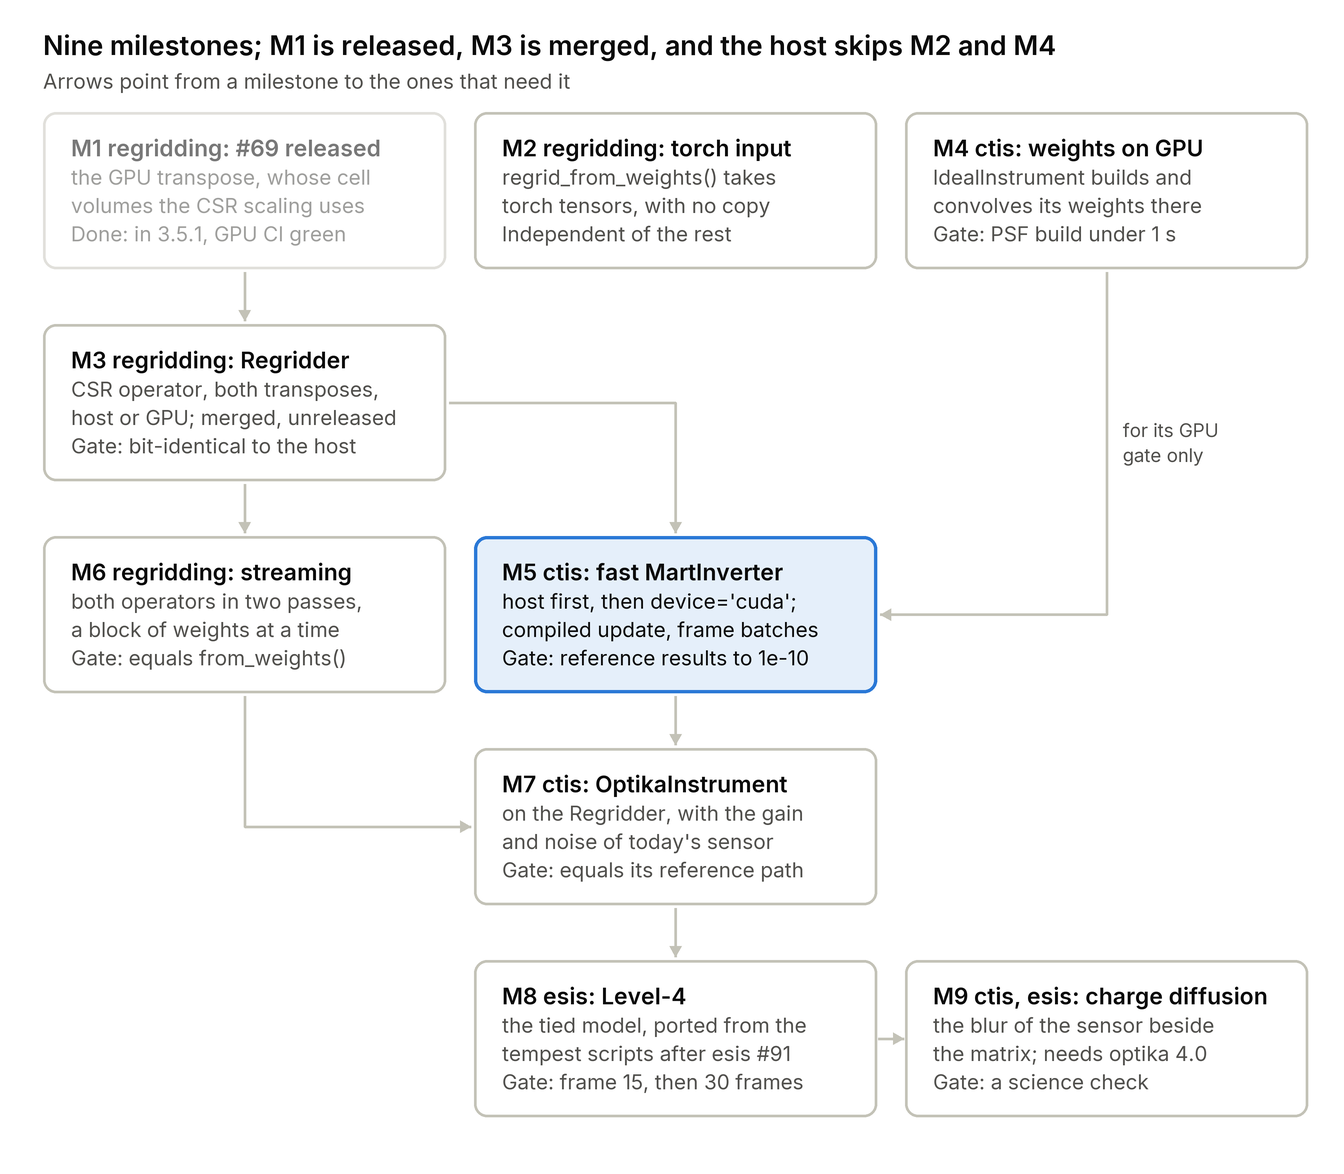
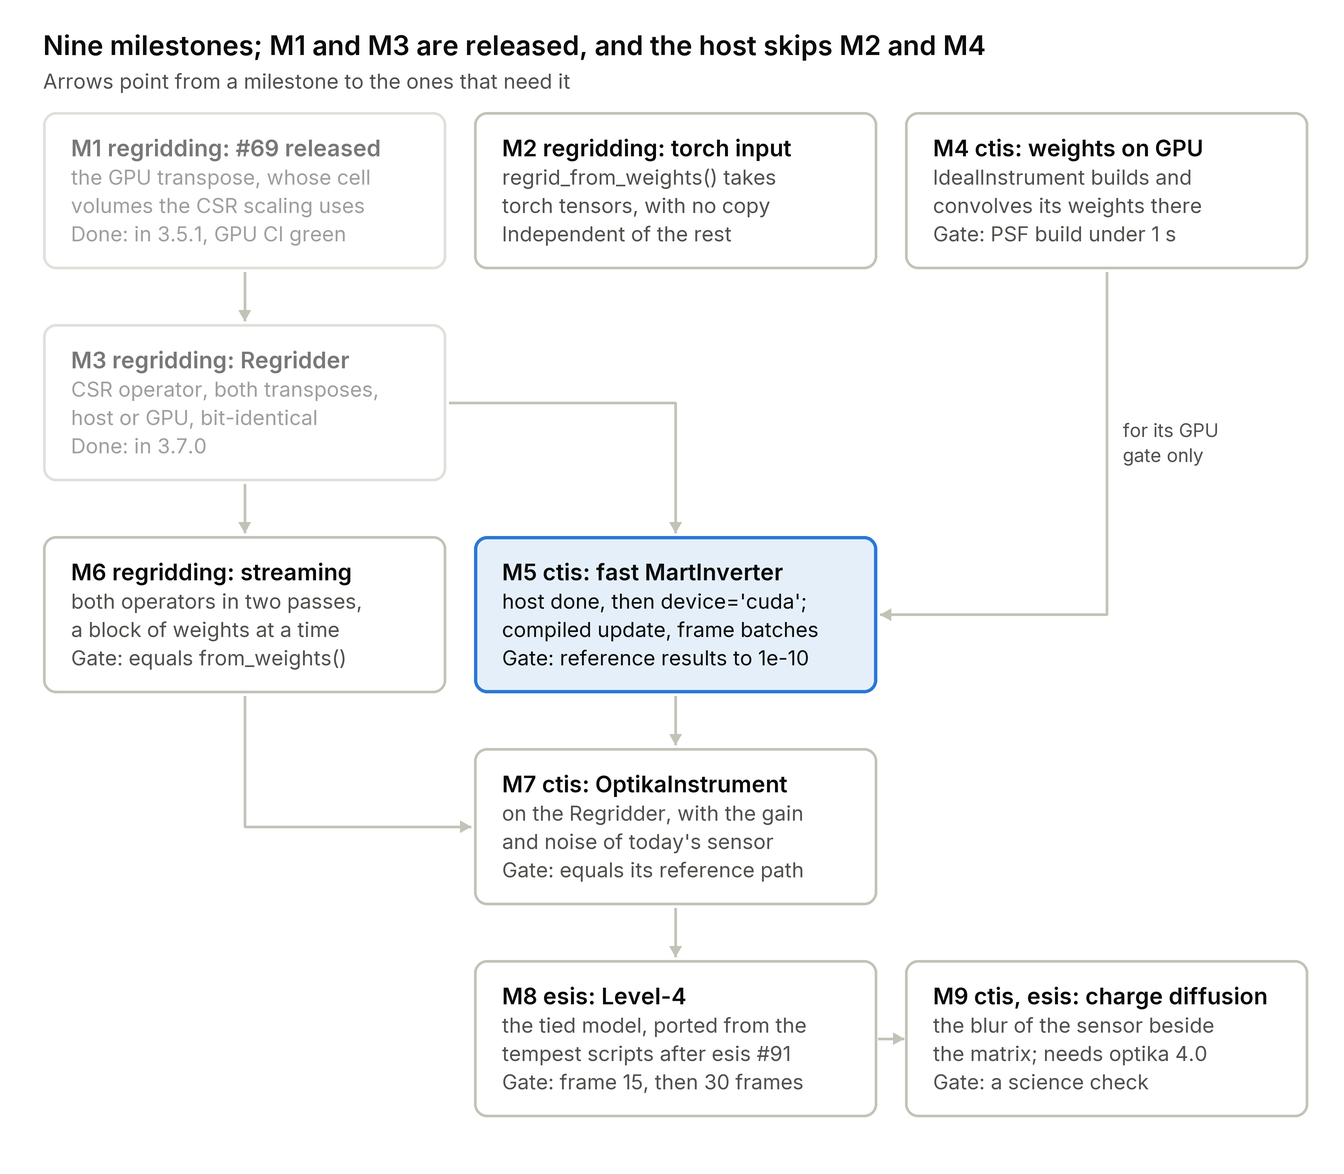
Bring the roadmap up to date with the host half of M5
The `Regridder` shipped in regridding 3.7.0, and the host half of M5 is
what this branch adds, so the roadmap now says where things stand: in
its introduction, its table of the pieces, its paragraph on the
milestones and its milestone chart.

The design is described as it was built.  The forward matrix takes a
scene for each channel, and the backprojection is its conservative
transpose, derived the first time it is needed, so only one operator is
assembled from the weights.  The roadmap had the scene shared by the
channels, and a second operator assembled for the backprojection.  The
box of the two matrices in the design figure is corrected to match.

The tolerance of the gate of M5 in single precision is 1e-5, as agreed.
The gate also records what the host measured on the three benchmark
problems: solutions within 1.5e-14 of their peaks of those of the
reference path in double precision, and within 2.3e-7 in single
precision, at the same iteration counts.

The width of a batch of frames joins the open questions: `MartInverter`
solves every frame it is given at once, and at production four fit in
the host.

Claude-Session: https://claude.ai/code/session_01StcJvVHMXbjJmyFFwf4Pcn

Changed region(s): [[0.0312, 0.276, 0.2812, 0.3986], [0.2188, 0.0307, 0.7812, 0.0613], [0.4062, 0.4906, 0.5938, 0.5213]]

diff --git a/docs/roadmap/cuda-mart.rst b/docs/roadmap/cuda-mart.rst
@@ -7,8 +7,10 @@ Every numerical piece of a fast MART now exists,
 and ``regridding.Regridder`` joins most of them:
 one sparse CSR operator with both of its transposes,
 assembled and applied on the host or on a GPU.
-What remains is a path in :class:`~ctis.inverters.MartInverter` that runs on it
-and, for the ESIS Level-4 product,
+:class:`~ctis.inverters.MartInverter` now runs on it on the host,
+for an :class:`~ctis.instruments.IdealInstrument`.
+What remains is the same loop on a GPU and, for the ESIS Level-4 product,
+the model of the flight instrument on the operator,
 a streaming build for weights too large to hold at once
 and the tied model of ESIS, which today lives in scripts.
 The host comes first.
@@ -50,7 +52,7 @@ Where things stand
         its per-grid cell volumes give the CSR operator its conservative scaling
     * - ``regridding.Regridder``
       - `regridding #70 <https://github.com/sun-data/regridding/pull/70>`__
-      - Merged, to be released in 3.7.0
+      - Released in 3.7.0 on 2026-11-13
       - Every channel and wavelength in one CSR matrix,
         with broadcasting declared by shapes, exact and conservative transposes,
         assembly on the host or GPU that agree bit for bit,
@@ -60,6 +62,13 @@ Where things stand
       - Released
       - The reference algorithm, on the host through :mod:`named_arrays`,
         with PSF support in :class:`~ctis.instruments.IdealInstrument`
+    * - :class:`~ctis.inverters.MartInverter` on the ``Regridder``
+      - ctis main
+      - Unreleased
+      - The same algorithm on the host, on raw arrays and compiled code,
+        for an :class:`~ctis.instruments.IdealInstrument`:
+        frames solved together, float32 as an option,
+        and the reference path kept for the instruments without matrices
     * - ``torch`` ``Regridder``
       - ctis ``feature/parametric-inverter``, ``feature/elastic-net-inverter``
       - Unmerged
@@ -276,12 +285,17 @@ which every gate compares against.
   a length of 1 in the input means broadcast inside the matrix,
   and a length of 1 in the output means summed.
   Axes the weights lack are batch columns.
-  The forward model is one product from (wavelength, x, y) to (channel, x′, y′),
-  with the scene shared by the channels.
-  Its transpose would sum the channels,
-  but MART backprojects each channel on its own,
-  so the backprojection is the transpose of a second operator on the same weights,
-  which takes a scene per channel, (channel, wavelength, x, y).
+  The forward model is one product from (channel, wavelength, x, y) to (channel, x′, y′),
+  on a scene for each channel:
+  the scene times the photons that each of its units sends toward that channel,
+  which one compiled pass writes.
+  MART backprojects each channel on its own,
+  so the backprojection is the conservative transpose of that same operator,
+  derived the first time it is needed,
+  and only one operator is assembled from the weights.
+  An operator which shared the scene between the channels would save that pass,
+  but its transpose would sum the channels,
+  so the backprojection would need a second assembly.
 - **Conservative values on the indices of the transpose.**
   The conservative transpose scales each entry of the exact one
   by an input-cell factor over an output-cell volume,
@@ -427,11 +441,10 @@ Milestones
 
 Nine milestones take the fast MART from prototype to the ESIS Level-4 product,
 on the host first and then on a GPU.
-M5 is the first one users can run.
-M1 shipped in regridding 3.5.1.
-M3 is merged and waits to be released as regridding 3.7.0;
-M5 and M6 need it.
-The host half of M5 is built on a branch and needs that release.
+M5 is the first one users can run, and its host half is done:
+:class:`~ctis.inverters.MartInverter` runs on the ``Regridder`` on the host,
+and the ``device`` option, for a GPU, remains.
+M1 shipped in regridding 3.5.1 and M3 in regridding 3.7.0, which M5 and M6 need.
 M2 and M4 can start now, and the host needs neither.
 
 .. figure:: cuda-mart/milestones.png
@@ -513,9 +526,14 @@ At ESIS scale, where it cannot run, the standard is the product of tempest.
         the same iteration count as the reference path,
         and :math:`\langle \chi^2 \rangle` and the solution within 1e-10 of its,
         on all three benchmark problems.
-        In float32, the same within a tolerance agreed before the run.
+        In float32, the same iteration count,
+        and :math:`\langle \chi^2 \rangle` and the solution within 1e-5.
         A batch of frames gives the solutions of the frames solved one at a time,
-        bit for bit
+        bit for bit.
+        The host passes all three:
+        on the benchmark problems its solutions agree with those of the reference path
+        to 1.5e-14 of their peaks in float64 and to 2.3e-7 in float32,
+        at the same iteration counts
       - On the host, the loop outside the two products takes less time than they do
         at the production size of ESIS.
         On a GPU, at least 6 times faster end to end on the PSF tutorial
@@ -767,6 +785,10 @@ The rest are questions to settle before the milestone that needs them.
   whenever the instrument provides its matrices,
   and the reference path serves the instruments which cannot, and the tests.
   The ``device`` option is still to come.
+- **The width of a batch of frames (M8).**
+  :class:`~ctis.inverters.MartInverter` solves every frame of the images it is given at once.
+  At production four frames fit in the host, not thirty,
+  so either the caller passes four at a time, or the inverter takes a limit.
 - **Regenerate or cache (resolved).**
   Rebuild.
   Since :mod:`named_arrays` 2.20.0 the preparation in :mod:`optika`
